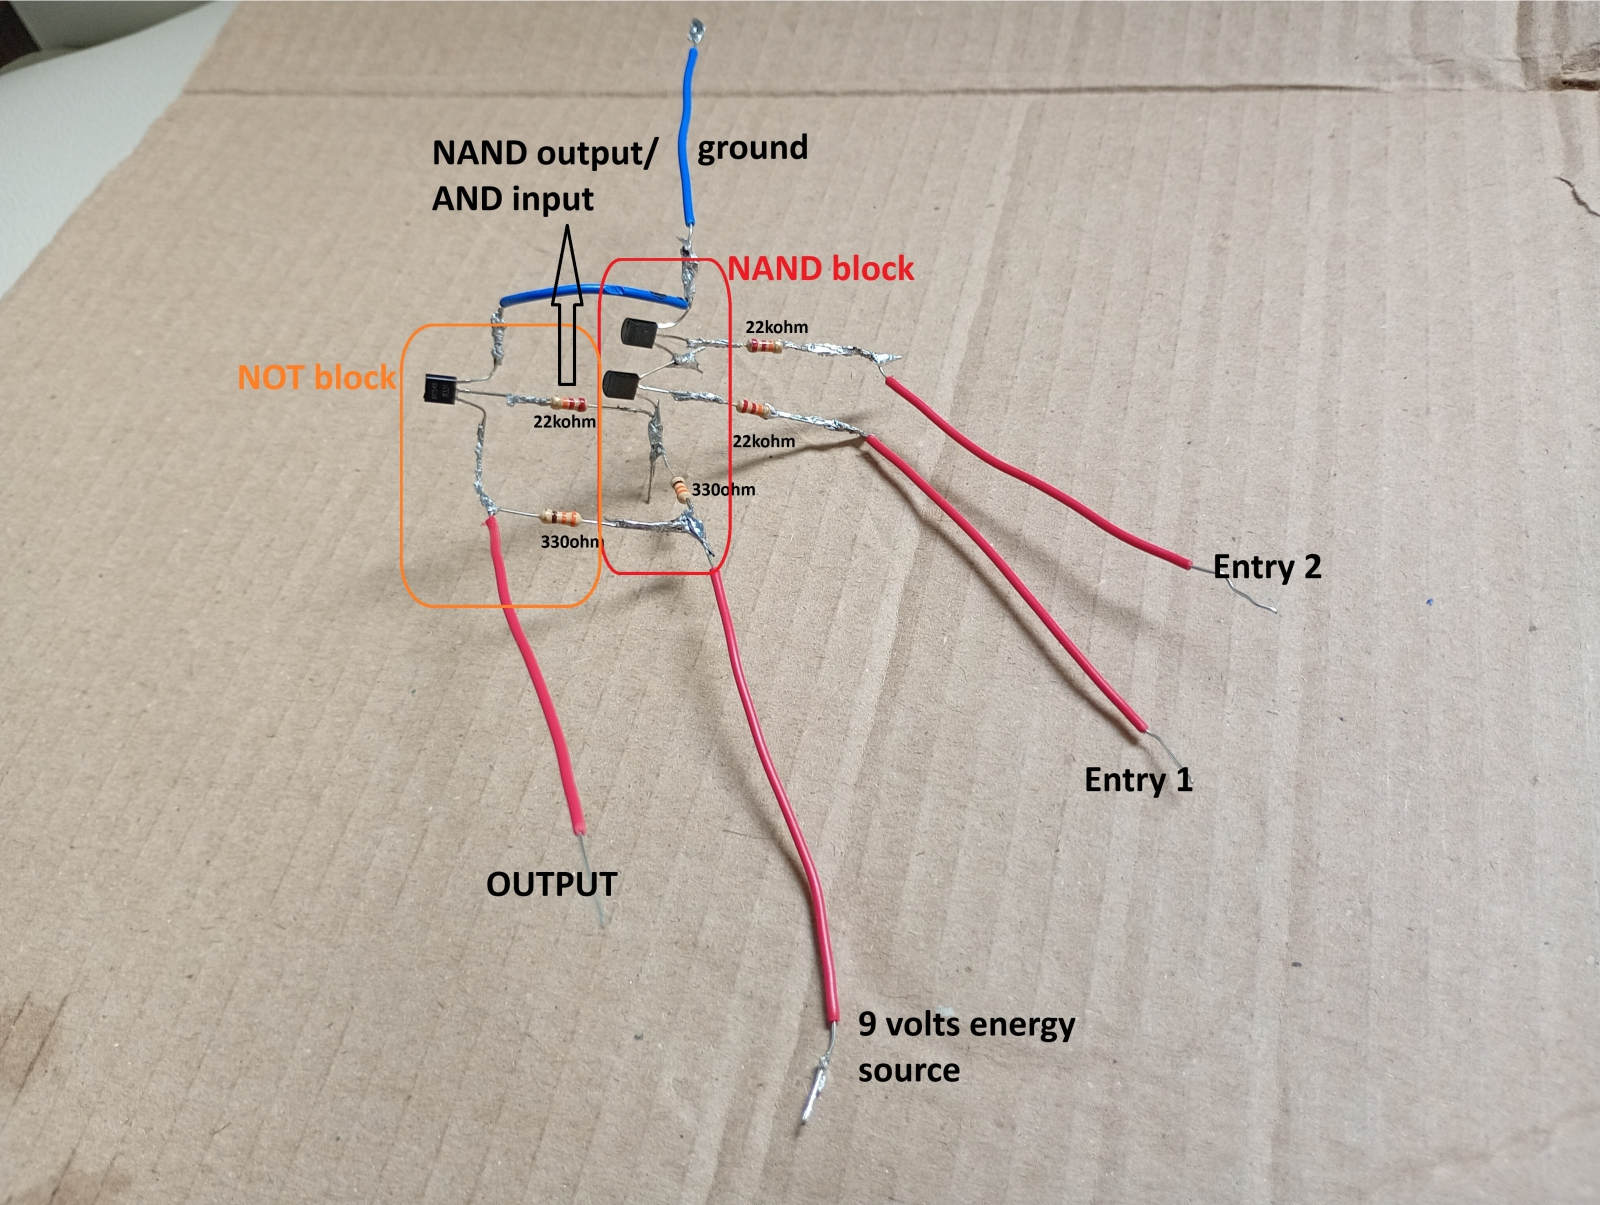
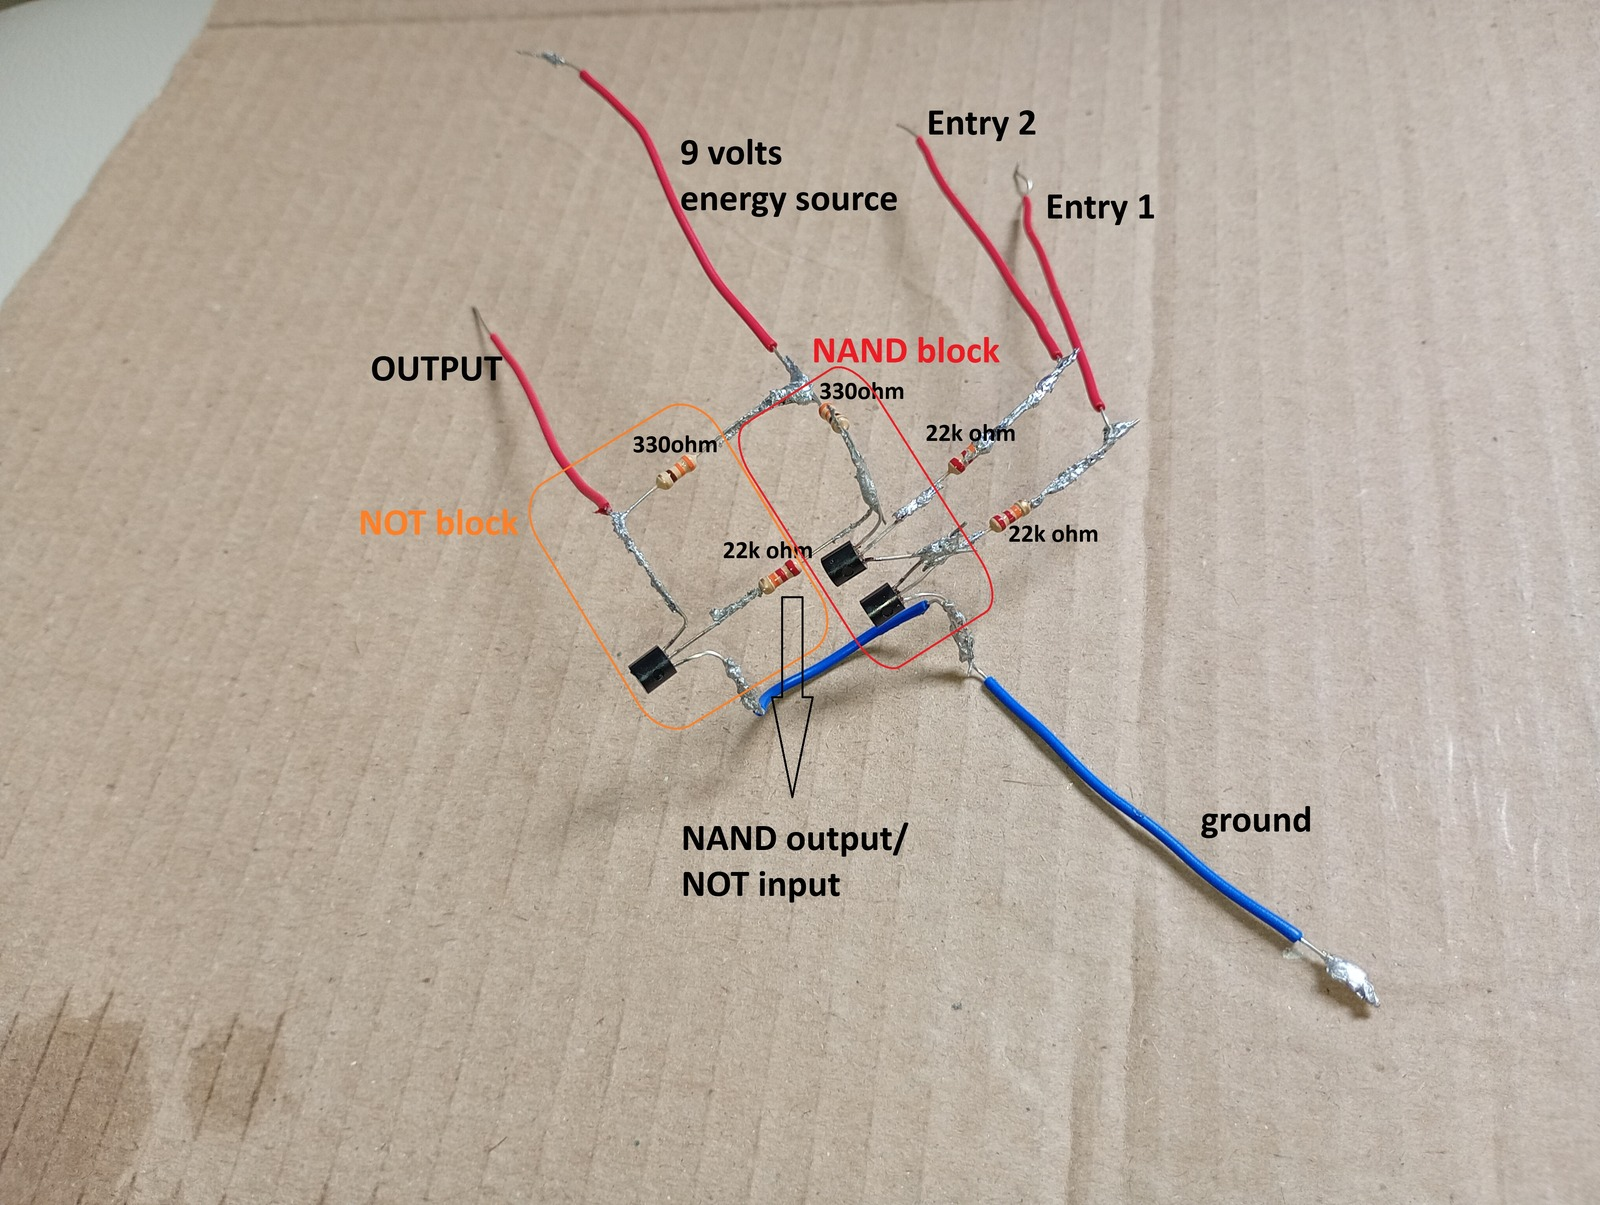
more doc about logic operators

diff --git a/binary-adder/src/main/resources/templates/home.html b/binary-adder/src/main/resources/templates/home.html
@@ -24,7 +24,7 @@
       <br>
       <p>Feel free to explore the different sections of the sidebar and access <b>handbooks</b>, <b>real adder circuit</b>, <b>logic explanations</b>, and more! 🚀</p>
       <br>
-      <p><b><i>Let's get started, or should I say, ADD! 🎉</i></b></p>
+      <p><b><i>Let's get started, or should I say, added! 🎉</i></b></p>
     </main>
   <!-- Script -->
   <script th:src="@{/js/home_page_script.js}"></script>

diff --git a/binary-adder/src/main/resources/markdowns/logic-operators/operators/AND.md b/binary-adder/src/main/resources/markdowns/logic-operators/operators/AND.md
@@ -1,0 +1,88 @@
+# **AND Operator**
+
+## 0⃣1⃣ 1. Truth Tables
+The AND operator yields a high state ($9\text{V}$) **only** when both input signals are simultaneously high.
+
+| Entry 1 (A) | Entry 2 (B) | Boolean Output | Voltage Output |
+| :---: | :---: | :---: | :---: |
+| Low | Low | **False** | $\approx 0\text{V}$ |
+| High | Low | **False** | $\approx 0\text{V}$ |
+| Low | High | **False** | $\approx 0\text{V}$ |
+| High | High | **True** | **$9\text{V}$** |
+
+---
+
+## 🧠 2. Engineering Logic & The "0.7V Voltage Drop" Problem
+A naive approach would implement the AND operator by placing two NPN transistors directly in series. 
+> ![raw AND operator](../../../static/images/handbook/logic_circuits_diagrams/AND/AND_simple_assembly.png "raw AND operator")
+
+However, physics introduces a critical flaw: **The Voltage Drop**.
+
+* Every active silicon transistor reduces the voltage passing through its collector-emitter junction by approximately **$0.7\text{V}$**.
+* Two transistors in series drop a $9\text{V}$ VCC source down to **$7.6\text{V}$** at the output.
+* If this signal chains into another consecutive logic gate, the voltage drops further to **$6.2\text{V}$**.
+
+Eventually, the signal degrades entirely, breaking the binary threshold and inducing systemic logical errors (bugs).
+
+### 🛡 The Solution: NAND + NOT Topology
+To eliminate signal degradation, the AND gate is engineered by combining a **NAND block** with an inverting **NOT block**. In this architecture, the logic inputs do not carry the output load; instead, they merely route control current to the ground, maintaining a clean $9\text{V}$ or $0\text{V}$ rail-to-rail digital state.
+
+> ![NAND + NOT form of AND operator](../../../static/images/handbook/logic_circuits_diagrams/AND/AND_assembled_as_NAND_NOt.png "NAND + NOT form of AND operator")
+
+🔻 The downsides of this solution are basically more complexity, more components (cost💲) and the bigger difficult to assemble the circuit.
+
+---
+
+## 📊 Circuit State Analysis 
+
+Here is how the current behaves dynamically across the four entry combinations:
+
+### a) Both Entries are LOW
+* **Simulator image:**
+>![both entries on low](../../../static/images/handbook/logic_circuits_diagrams/AND/entry_cases/both_entries_low.png "both entries on low")
+
+* **Status:** Output is **LOW** ($\approx 0.14\text{V}$).
+* **Behavior:** The NAND transistors remain un-saturated (switched off). Current from the main source cannot bridge to the ground via the NAND path, forcing it into the base of the NOT transistor. This saturates the NOT transistor, cleanly shunting the final output straight to ground.
+
+### b) Entry 1 is HIGH / Entry 2 is LOW
+* **Simulator image:**
+>![One entry is high](../../../static/images/handbook/logic_circuits_diagrams/AND/entry_cases/one_entry_high_1.png "One entry is high")
+
+* **Status:** Output is **LOW**.
+* **Behavior:** Even though the first transistor's base receives pressure, current cannot flow because the second transistor remains an open circuit. 
+> ❓ **Why doesn't the first transistor saturate?** For a transistor to saturate, current must actively flow through its base to ground. If the path to $0\text{V}$ is blocked down the line, charge carrier movement stops completely, leaving the transistor inactive.
+
+### c) Entry 1 is LOW / Entry 2 is HIGH
+* **Simulator image:**
+>![One entry is high](../../../static/images/handbook/logic_circuits_diagrams/AND/entry_cases/one_entry_high_2.png "One entry is high")
+
+* **Status:** Output is **LOW**.
+* **Behavior:** Mirroring the scenario above, the top transistor blocks the path completely, keeping the NAND block inert and the NOT block active.
+
+### d) Both Entries are HIGH
+* **Simulator image:**
+> ![Both entries are high](../../../static/images/handbook/logic_circuits_diagrams/AND/entry_cases/both_entries_high.png "Both entries are high")
+
+* **Status:** Output is **HIGH** ($9\text{V}$).
+* **Behavior:** Both NAND transistors fully saturate, opening a path of least resistance directly to ground. This starvation cuts off the base current to the NOT transistor, turning it off. The main supply line is now forced entirely out to the **OUTPUT** terminal.
+
+---
+
+### 2.3. Bill of Materials (BOM) 🛒
+
+Each individual AND operator module requires the following discrete components:
+
+* **3x** $22\text{k }\Omega$ ($1/4\text{W}$) Carbon Film Resistors
+* **2x** $330\text{ }\Omega$ ($1/4\text{W}$) Carbon Film Resistors
+* **3x** BC-548 NPN Bipolar Junction Transistors (BJTs)
+* **Power Requirements:** Dual $9\text{V}$ Input Rails + Dedicated $9\text{V}$ VCC Source
+
+---
+
+### 2.4. Hardware Gallery (Soldering & Assembly) 🛠
+
+> 💡 *Note: Transitioning from a temporary breadboard layout to a permanent soldered PCB ensures minimal contact resistance and long-term circuit stability.*
+
+| Component Layout (Top View) | Solder Traces (Bottom View) |
+| :---: | :---: |
+| ![View 1](../../../static/images/handbook/assembled_logic_circuits/AND/view_1.jpg) | ![View 2](../../../static/images/handbook/assembled_logic_circuits/AND/view_2.jpg) |

diff --git a/binary-adder/src/main/resources/markdowns/logic-operators/operators/OR.md b/binary-adder/src/main/resources/markdowns/logic-operators/operators/OR.md
@@ -1,0 +1,88 @@
+# **OR Operator**
+
+## 0⃣1⃣ 1. Truth Tables
+The OR operator yields a high state ($9\text{V}$) when some (1 or more) input signal is high.
+
+| Entry 1 | Entry 2 | Boolean Output | Voltage Output |
+| :---: | :---: | :---: | :---: |
+| Low | Low | **False** | $\approx 0\text{V}$ |
+| High | Low | **True** | **$9\text{V}$** |
+| Low | High | **True** | **$9\text{V}$** |
+| High | High | **True** | **$9\text{V}$** |
+
+---
+
+## 🧠 2. Engineering Logic & The "0.7V Voltage Drop" Problem
+A naive approach would implement the AND operator by placing two NPN transistors directly in series. 
+> ![raw AND operator](../../../static/images/handbook/logic_circuits_diagrams/AND/AND_simple_assembly.png "raw AND operator")
+
+However, physics introduces a critical flaw: **The Voltage Drop**.
+
+* Every active silicon transistor reduces the voltage passing through its collector-emitter junction by approximately **$0.7\text{V}$**.
+* Two transistors in series drop a $9\text{V}$ VCC source down to **$7.6\text{V}$** at the output.
+* If this signal chains into another consecutive logic gate, the voltage drops further to **$6.2\text{V}$**.
+
+Eventually, the signal degrades entirely, breaking the binary threshold and inducing systemic logical errors (bugs).
+
+### 🛡 The Solution: NAND + NOT Topology
+To eliminate signal degradation, the AND gate is engineered by combining a **NAND block** with an inverting **NOT block**. In this architecture, the logic inputs do not carry the output load; instead, they merely route control current to the ground, maintaining a clean $9\text{V}$ or $0\text{V}$ rail-to-rail digital state.
+
+> ![NAND + NOT form of AND operator](../../../static/images/handbook/logic_circuits_diagrams/AND/AND_assembled_as_NAND_NOt.png "NAND + NOT form of AND operator")
+
+🔻 The downsides of this solution are basically more complexity, more components (cost💲) and the bigger difficult to assemble the circuit.
+
+---
+
+## 📊 Circuit State Analysis 
+
+Here is how the current behaves dynamically across the four entry combinations:
+
+### a) Both Entries are LOW
+* **Simulator image:**
+>![both entries on low](../../../static/images/handbook/logic_circuits_diagrams/AND/entry_cases/both_entries_low.png "both entries on low")
+
+* **Status:** Output is **LOW** ($\approx 0.14\text{V}$).
+* **Behavior:** The NAND transistors remain un-saturated (switched off). Current from the main source cannot bridge to the ground via the NAND path, forcing it into the base of the NOT transistor. This saturates the NOT transistor, cleanly shunting the final output straight to ground.
+
+### b) Entry 1 is HIGH / Entry 2 is LOW
+* **Simulator image:**
+>![One entry is high](../../../static/images/handbook/logic_circuits_diagrams/AND/entry_cases/one_entry_high_1.png "One entry is high")
+
+* **Status:** Output is **LOW**.
+* **Behavior:** Even though the first transistor's base receives pressure, current cannot flow because the second transistor remains an open circuit. 
+> ❓ **Why doesn't the first transistor saturate?** For a transistor to saturate, current must actively flow through its base to ground. If the path to $0\text{V}$ is blocked down the line, charge carrier movement stops completely, leaving the transistor inactive.
+
+### c) Entry 1 is LOW / Entry 2 is HIGH
+* **Simulator image:**
+>![One entry is high](../../../static/images/handbook/logic_circuits_diagrams/AND/entry_cases/one_entry_high_2.png "One entry is high")
+
+* **Status:** Output is **LOW**.
+* **Behavior:** Mirroring the scenario above, the top transistor blocks the path completely, keeping the NAND block inert and the NOT block active.
+
+### d) Both Entries are HIGH
+* **Simulator image:**
+> ![Both entries are high](../../../static/images/handbook/logic_circuits_diagrams/AND/entry_cases/both_entries_high.png "Both entries are high")
+
+* **Status:** Output is **HIGH** ($9\text{V}$).
+* **Behavior:** Both NAND transistors fully saturate, opening a path of least resistance directly to ground. This starvation cuts off the base current to the NOT transistor, turning it off. The main supply line is now forced entirely out to the **OUTPUT** terminal.
+
+---
+
+### 2.3. Bill of Materials (BOM) 🛒
+
+Each individual AND operator module requires the following discrete components:
+
+* **3x** $22\text{k }\Omega$ ($1/4\text{W}$) Carbon Film Resistors
+* **2x** $330\text{ }\Omega$ ($1/4\text{W}$) Carbon Film Resistors
+* **3x** BC-548 NPN Bipolar Junction Transistors (BJTs)
+* **Power Requirements:** Dual $9\text{V}$ Input Rails + Dedicated $9\text{V}$ VCC Source
+
+---
+
+### 2.4. Hardware Gallery (Soldering & Assembly) 🛠
+
+> 💡 *Note: Transitioning from a temporary breadboard layout to a permanent soldered PCB ensures minimal contact resistance and long-term circuit stability.*
+
+| Component Layout (Top View) | Solder Traces (Bottom View) |
+| :---: | :---: |
+| ![View 1](../../../static/images/handbook/assembled_logic_circuits/AND/view_1.jpg) | ![View 2](../../../static/images/handbook/assembled_logic_circuits/AND/view_2.jpg) |

diff --git a/binary-adder/src/main/resources/markdowns/logic-operators/introduction.md b/binary-adder/src/main/resources/markdowns/logic-operators/introduction.md
@@ -1,0 +1,29 @@
+# 📖 **HANDBOOK**
+
+# **Low-level logic circuits**
+
+Welcome to the introduction of low-level logic circuits. Before diving into the project, we must first establish a clear understanding of what a low-level logic circuit actually is.
+
+## 1. Explanation of low-level logic circuits
+
+### 1.1 What is an electronic circuit ⚡?
+
+#### The author's definition:
+> "A circuit—specifically, an electronic circuit—is a combination of basic electronic elements (such as resistors, transistors, capacitors, and diodes) connected to one another to control and direct the electrical energy passing through them."
+
+#### Wikipedia's definition:
+> "An electronic circuit is composed of individual electronic components, such as resistors, transistors, capacitors, inductors and diodes, connected by conductive wires or traces through which electric current can flow. It is a type of electrical circuit. For a circuit to be referred to as electronic, rather than electrical, generally at least one active component must be present."
+
+### 1.2 What does "Low-level" mean 🤖?
+
+In this context, the term **"low-level"** signifies that **no integrated circuits (ICs) are used**. Instead, the system relies entirely on discrete, fundamental components like resistors, transistors, and diodes. 
+
+To better contrast this with modern electronics, consider this definition of an integrated circuit from *Synopsys*:
+
+> "An integrated circuit (IC) — commonly called a chip — is a compact, highly efficient semiconductor device that contains a multitude of interconnected electronic components such as transistors, resistors, and capacitors, all fabricated on a single piece of silicon. This revolutionary technology forms the backbone of modern electronics, enabling high-speed, miniaturized, and reliable devices found in everything from smartphones and computers to medical equipment and vehicles."
+
+### 1.3 Conclusion 🏆
+
+By combining these concepts, we arrive at our definitive definition: 
+
+A **low-level logic circuit** is a discrete electronic circuit built entirely from fundamental components (resistors, transistors, diodes) to implement a fundamental logic operator—such as AND, OR, NOT, NAND, or NOR—without relying on pre-fabricated microchips.
